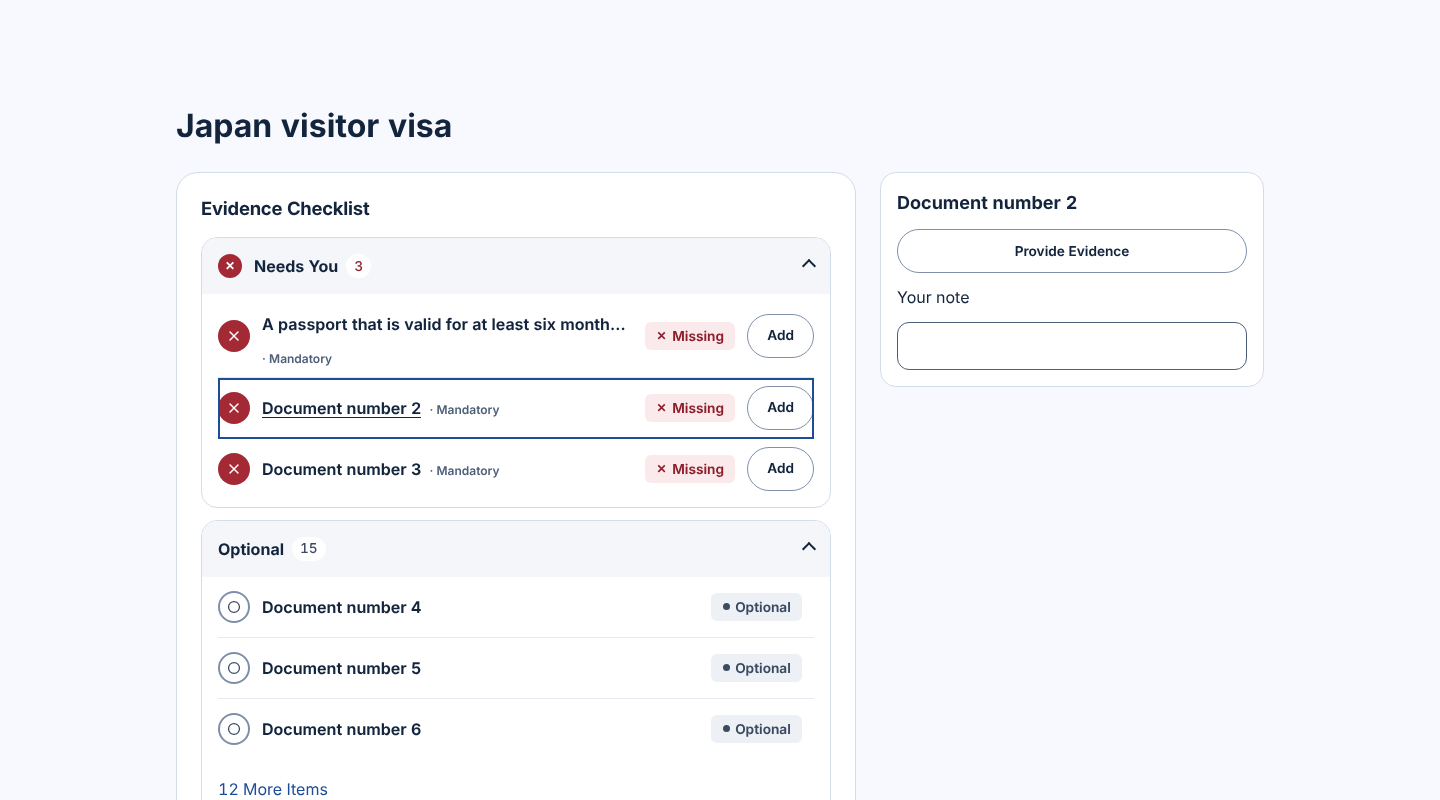
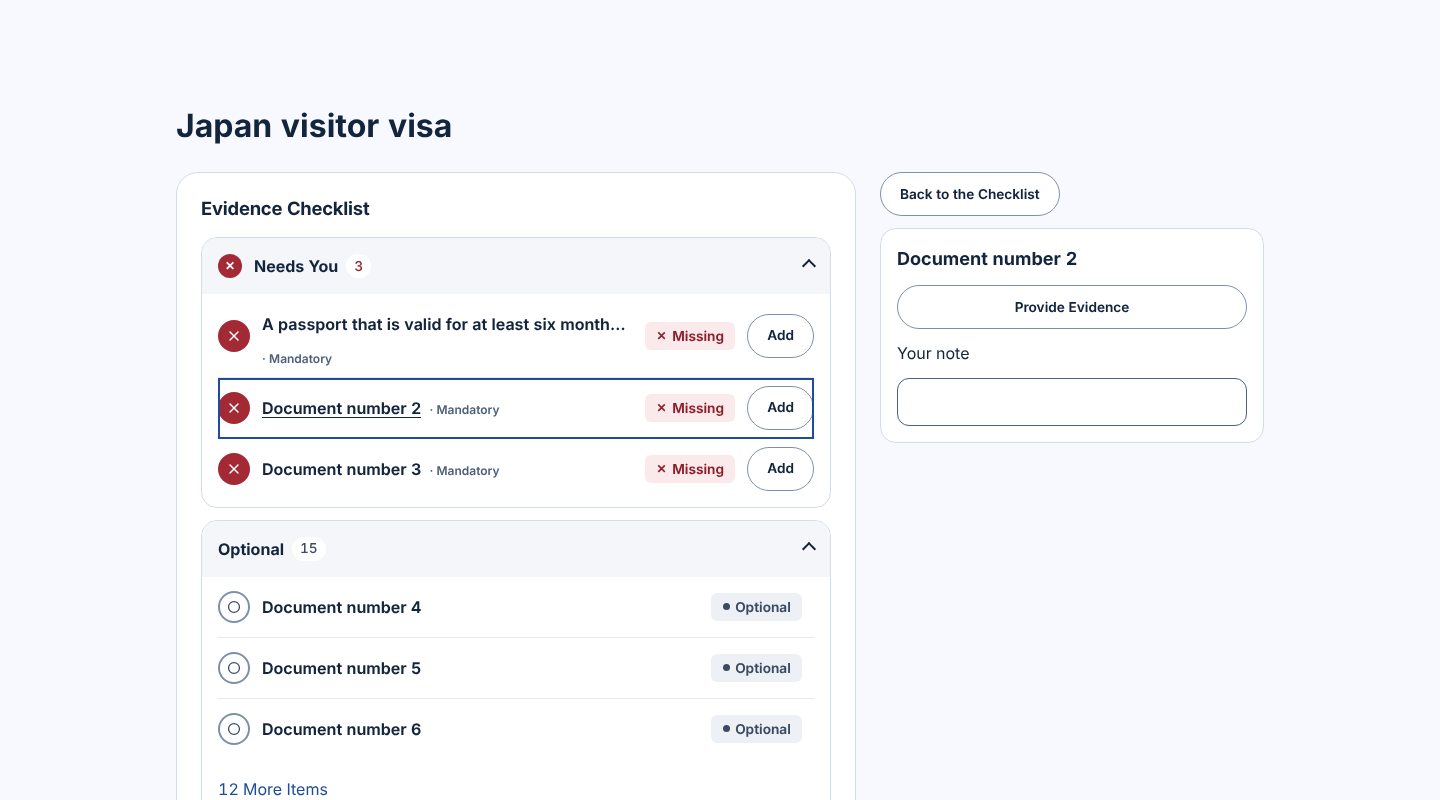
Case page package 1: measured page budgets with the package in the worst case
Claude-Session: https://claude.ai/code/session_0187kU9s7CCAguUHZ6g1M2op

Changed region(s): [[0.625, 0.2188, 0.7812, 0.4062], [0.6875, 0.375, 0.7812, 0.4062], [0.625, 0.4375, 0.6875, 0.4688]]

diff --git a/apps/web/e2e/scroll-budget/WP-SB2.spec.ts b/apps/web/e2e/scroll-budget/WP-SB2.spec.ts
@@ -124,14 +124,14 @@ const LIFT = {
    * 1266 at a phone and 900 at a desktop). Those aspirations are NOT met yet and are tracked as
    * open work in docs/commercial-v1/known-issues.md. Lower these numbers when the page gets shorter.
    *
-   * 9 Nov 2026: the worst case now carries the Trip Package (51 items, each repeated with its own
-   * choice form), which this budget never measured. Browse and Everything are measured as they are
-   * (18383, 17987 and 15832 px) and held there; the case page package ("Shared kit plus the case
-   * checklist") removes the per-item list and these three numbers must then come down to the old
-   * ones. Glance does not show the package and is unchanged.
+   * 9 Nov 2026: the worst case carries the Trip Package (51 items). Measured with every item
+   * repeated in the package it was 18383, 17987 and 15832 px (phone Everything, phone Browse,
+   * desktop Everything). The shared list kit moved each item's choice into its own panel and made
+   * the package a summary, and the page now measures 3986, 3590, 1826 and 3274 px with the
+   * package in it. Held there with a little headroom; Glance is back under 2000.
    */
-  phonePage: { everything: 18600, browse: 18200, glance: 2000 },
-  desktopPage: { everything: 16000 },
+  phonePage: { everything: 4050, browse: 3650, glance: 1900 },
+  desktopPage: { everything: 3300 },
   /** Where the first checklist row may start (px from the top of the page). */
   firstRow: { phone: 1500, desktop: 1100 },
 } as const;

diff --git a/docs/commercial-v1/known-issues.md b/docs/commercial-v1/known-issues.md
@@ -7726,3 +7726,4 @@ Docs only; no code, test, workflow or migration change. Started on main `b665fd4
 - Guards: `lib/ccd/pattern-registry.ts` and `pattern-conformance.test.tsx` (the registry names real files; a converted screen imports the kit and hand-builds no table; the count of screens still waiting, 16, can only go down; rows have one mark, a chip word from the vocabulary and at most one action; folders are Title Case; every panel has a heading and one way back), `lib/list-pattern-css.test.ts` (rows at least 56px, 44px targets, one line of name, full screen under 1180px, flat), `e2e/pattern/pattern-screens.spec.ts` (390 and 1440 wide: equal row heights, targets, no sideways scroll, open, Esc, Back, deep link, axe; screenshots under `docs/uiux/evidence/pattern/` as review artifacts, fixture renders and not live acceptance), the case page added to `e2e/signed-in/responsive-a11y.spec.ts` (needs the staging accounts, not run here). Guards proved by breaking the real code: a 40px row, a regroup that put optional items under On File, each went red.
 - Not done in this package, by design: the plain-word renames of decision 5 (Saved Copy, Is This Still Up to Date?, Your Package, How Complete); Documents on the kit (package 2); the tracker, Contributors split and section switcher (package 3); `ui-lift/checklist-row.tsx` is now unused and stays one more package because the lift kitchen-sink test still renders it. Hydration cost of one hidden panel per item (about 19 small forms) is not measured in a real browser; if it proves heavy the fallback is to hydrate a panel when it opens, which breaks "the server draws everything" for that block, so the owner is asked first.
 - No database, readiness, access, published-list or server-action change.
+- Measured with the package in the worst case (60 checklist lines, 51 package items), real stylesheet, browser: phone Everything 3986 px (was 18383 with the package before this package, ceiling 4050), phone Browse 3590 (was 17987, ceiling 3650), phone Glance 1826 (ceiling 1900), desktop Everything 3274 (was 15832, ceiling 3300). The temporary ceilings from package 0 are replaced by these. The new browser spec `e2e/pattern/pattern-screens.spec.ts` passes at 390 and 1440 wide (10 tests, fixture renders).
